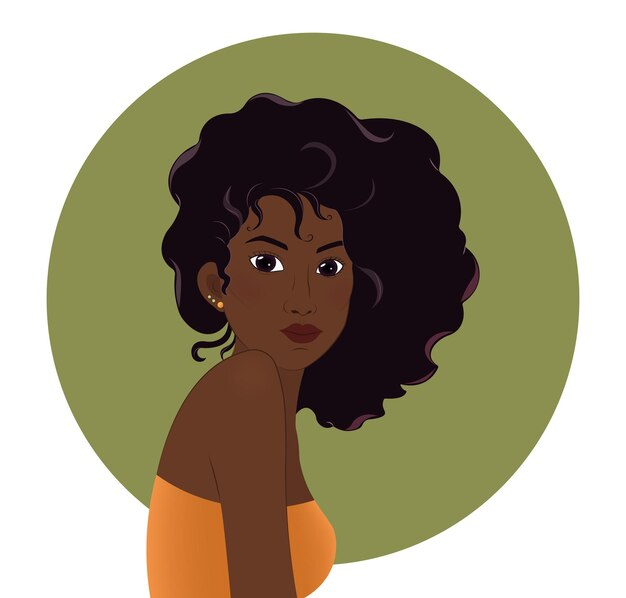
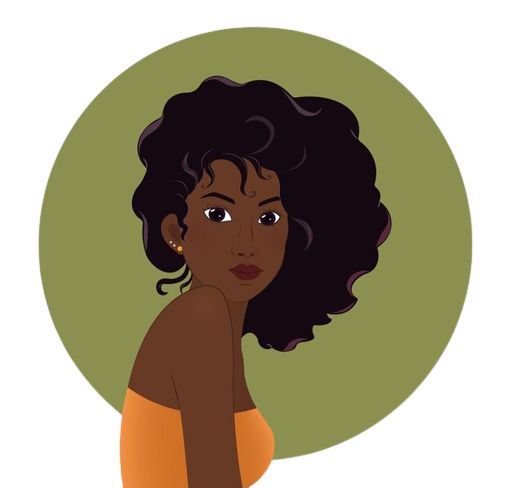
added responsiveness

diff --git a/src/components/Hero.jsx b/src/components/Hero.jsx
@@ -1,9 +1,25 @@
 import React from "react";
+import hero from "../assets/young-african-american-woman-with-black-curly-hair-yellow-tshirt-green-circle-backdrop_450469-975.jpg";
 
 const Hero = () => {
   return (
     <section id="hero">
-      <div className="h-[80vh] bg-teal-800">hero</div>
+      <div className="min-h-[80vh] flex flex-col lg:flex-row md:flex-row items-center justify-between bg-teal-800">
+        {/* Welcome text */}
+        <div className="flex flex-col items-center justify-center w-full p-4 mb-4 border h-1/2 md:ml-4 md:h-80 md:w-96 lg:ml-4 lg:h-80 lg:w-96">
+          <div className="mb-2 border">
+            <p className="text-4xl">Bringing the Salon to Your Home</p>
+            <p className="text-2xl">Home Hair Care, Done Your Way</p>
+            <p className="text-lg">Experience luxury in your own space</p>
+          </div>
+          <button className="p-2 bg-teal-300 border rounded-md">
+            Schedule now
+          </button>
+        </div>
+        <div className="border h-1/2 lg:w-1/2 lg:h-full md:w-1/2 md:h-full">
+          <img src={hero} alt="" className="m-auto border" />
+        </div>
+      </div>
     </section>
   );
 };

diff --git a/tailwind.config.js b/tailwind.config.js
@@ -5,6 +5,7 @@ export default {
     extend: {
       fontFamily: {
         logo: "Arizonia",
+        fun: "Agbalumo",
       },
     },
   },
